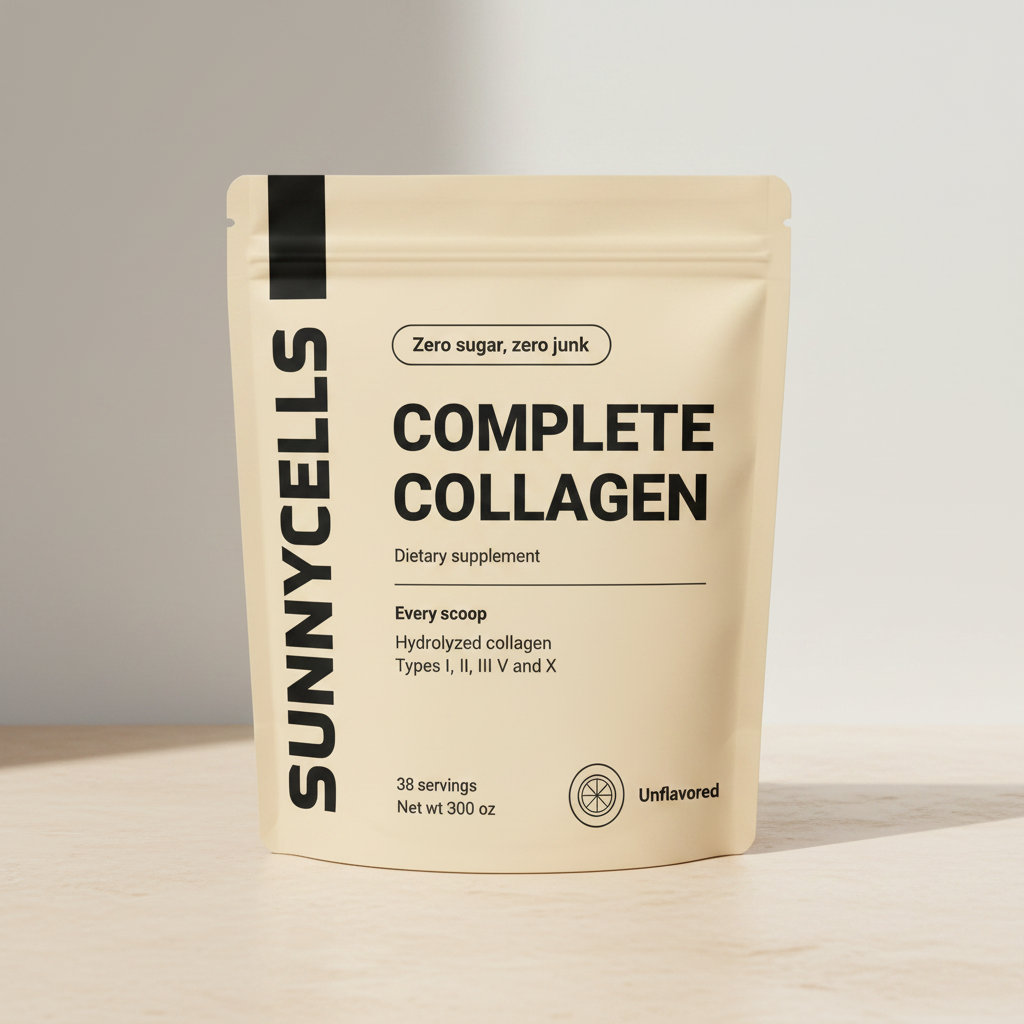
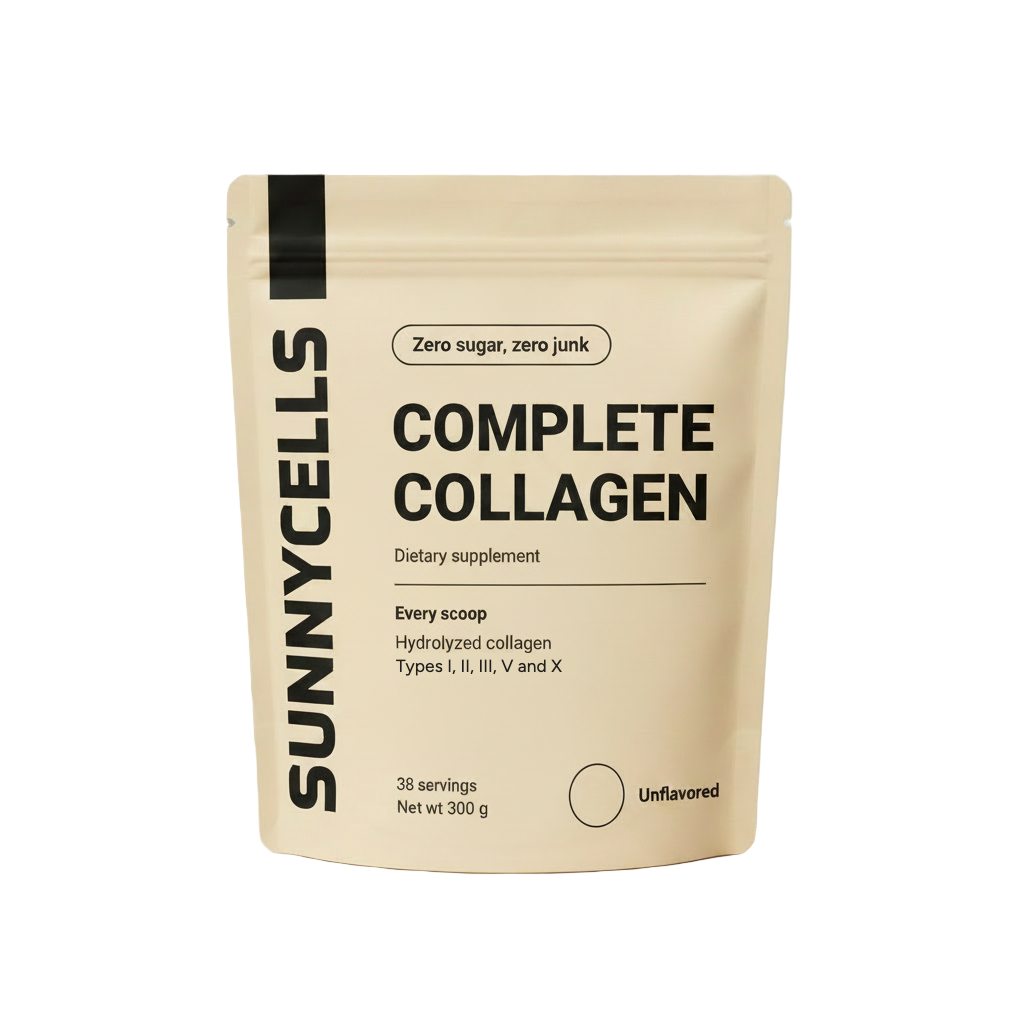
Shoot the collagen its own pictures and cut the hero out
The hero is transparent now, so it sits on the tint blocks and the story
screen without carrying a rectangle of stone with it. The pack render kept
two label errors the edit model would not fix, so the weight and the flavour
icon were corrected on the render and the collagen types line was patched
over a colour matched strip, which is the only way that comma was going to be
right.

The plans page had been borrowing the energy funnel's gallery panels and
faces and the diet funnel's drawn steps. It now has thirteen pictures of its
own across the hero carousel, the pillars, the ingredient panels, how it
works and the reviews. The headline review photograph was hardcoded to the
diet funnel's shot, so it takes a path from the content bundle like
everything else.

diff --git a/lib/quiz/agingPlansContent.ts b/lib/quiz/agingPlansContent.ts
@@ -9,16 +9,19 @@ import type { PlansContent } from "./plansContent";
 /* PLACEHOLDER REVIEWS. None of these people exist and none of these results were
    measured. Replace with real, documented customers before launch. */
 const HEADLINE_REVIEW = {
+  /* A different woman from the four in the review row below. The same face under two
+     names is the tell that gives a placeholder away. */
+  photo: "/photos/collagen-skin.webp",
   name: "Nadia R.",
   title: "One ingredient, and the types are on the front.",
   body: "I have taken enough collagen to be suspicious of all of it. Most of them are a proprietary blend with a scoop half full of things I did not ask for. This one is hydrolyzed collagen and nothing else, with the types printed on the front, which is the only reason I tried it. Four months in and my nails stopped splitting first, then the hair in my brush thinned out. My skin is the slowest of the three, which is what I was told to expect.",
 };
 
 const REVIEWS = [
-  { name: "Bea T.", photo: "/photos/even-avatar-1.webp", title: "Unflavored actually means unflavored", body: "It goes in my coffee and I cannot tell it is there. That sounds like a small thing but it is the whole reason I have kept taking it, where every flavoured one ended up at the back of a cupboard." },
-  { name: "Corinne L.", photo: "/photos/even-avatar-2.webp", title: "My hairbrush told me first", body: "The change I noticed was not in the mirror. There is less in the brush than there was, and I had quietly decided that was just my age." },
-  { name: "Marguerite D.", photo: "/photos/even-avatar-3.webp", title: "Two months, and my nails are long", body: "I have not had nails past my fingertips since my thirties. They still bend, but they stopped tearing off, which is the part that mattered." },
-  { name: "Suzanne P.", photo: "/photos/even-ugc-2.webp", title: "The knees were the surprise", body: "I bought it for my skin. What I actually noticed was getting up off the floor after gardening without the noise I usually make. I did not know collagen was in cartilage too." },
+  { name: "Bea T.", photo: "/photos/collagen-avatar-1.webp", title: "Unflavored actually means unflavored", body: "It goes in my coffee and I cannot tell it is there. That sounds like a small thing but it is the whole reason I have kept taking it, where every flavoured one ended up at the back of a cupboard." },
+  { name: "Corinne L.", photo: "/photos/collagen-avatar-2.webp", title: "My hairbrush told me first", body: "The change I noticed was not in the mirror. There is less in the brush than there was, and I had quietly decided that was just my age." },
+  { name: "Marguerite D.", photo: "/photos/collagen-avatar-3.webp", title: "Two months, and my nails are long", body: "I have not had nails past my fingertips since my thirties. They still bend, but they stopped tearing off, which is the part that mattered." },
+  { name: "Suzanne P.", photo: "/photos/collagen-avatar-4.webp", title: "The knees were the surprise", body: "I bought it for my skin. What I actually noticed was getting up off the floor after gardening without the noise I usually make. I did not know collagen was in cartilage too." },
 ];
 
 export const AGING_PLANS_CONTENT: PlansContent = {
@@ -45,9 +48,9 @@ export const AGING_PLANS_CONTENT: PlansContent = {
     { lead: "Hair is the slowest, give it ", strong: "3 to 6 months" },
   ],
   pillars: [
-    { slug: "skin", title: "Skin", body: "Types I and III are what the dermis is built from, the layer under the surface that keeps skin taut.", illustration: "/product/gallery/01-benefits.webp" },
-    { slug: "hair-nails", title: "Hair and nails", body: "Built from the same protein scaffolding as your skin, which is why they tend to change together.", illustration: "/product/complete-collagen.webp" },
-    { slug: "joints", title: "Joints", body: "Type II is the collagen in cartilage, with V and X in connective tissue and the growth plate.", illustration: "/product/gallery/06-in-the-glass.webp" },
+    { slug: "skin", title: "Skin", body: "Types I and III are what the dermis is built from, the layer under the surface that keeps skin taut.", illustration: "/photos/collagen-skin.webp" },
+    { slug: "hair-nails", title: "Hair and nails", body: "Built from the same protein scaffolding as your skin, which is why they tend to change together.", illustration: "/photos/collagen-hair.webp" },
+    { slug: "joints", title: "Joints", body: "Type II is the collagen in cartilage, with V and X in connective tissue and the growth plate.", illustration: "/photos/collagen-joints.webp" },
   ],
   headlineReview: HEADLINE_REVIEW,
   reviews: REVIEWS,
@@ -56,7 +59,7 @@ export const AGING_PLANS_CONTENT: PlansContent = {
     {
       slug: "type-i-iii",
       title: "Types I and III",
-      image: "/product/complete-collagen.webp",
+      image: "/photos/collagen-skin.webp",
       points: [
         ["What your skin is made of", "Together they are the overwhelming majority of the collagen in your dermis, the layer under the surface that gives skin its firmness."],
         ["Also hair, nails and bone", "The same two types build the scaffolding in hair follicles and nail beds, which is why those tend to change together."],
@@ -65,7 +68,7 @@ export const AGING_PLANS_CONTENT: PlansContent = {
     {
       slug: "type-ii",
       title: "Type II",
-      image: "/product/gallery/06-in-the-glass.webp",
+      image: "/photos/collagen-joints.webp",
       points: [
         ["The collagen in cartilage", "Type II is the main structural collagen in the cartilage between your joints rather than in skin."],
         ["Why one powder covers both", "It is the reason a collagen taken for skin is the same one people take to keep moving without paying for it the next day."],
@@ -74,7 +77,7 @@ export const AGING_PLANS_CONTENT: PlansContent = {
     {
       slug: "type-v-x",
       title: "Types V and X",
-      image: "/product/gallery/02-ingredients.webp",
+      image: "/photos/collagen-pack-detail.webp",
       points: [
         ["The two most formulas leave out", "Type V sits in connective tissue and the surface of cells; type X is found at the growth plate and in cartilage repair."],
         ["Five types, not one", "Most collagen powders are types I and III alone. Naming all five on the front is the point of the pack."],
@@ -83,7 +86,7 @@ export const AGING_PLANS_CONTENT: PlansContent = {
     {
       slug: "hydrolyzed",
       title: "Hydrolyzed, not whole",
-      image: "/product/gallery/03-stick.webp",
+      image: "/photos/collagen-in-cup.webp",
       points: [
         ["Broken down to be absorbed", "Whole collagen is too large to cross the gut wall. Hydrolysis cuts it into peptides small enough to be taken up and carried to the tissue."],
         ["Which is why it is a powder", "It also dissolves in hot or cold liquid without gelling, so it goes into coffee without turning it into anything."],
@@ -92,7 +95,7 @@ export const AGING_PLANS_CONTENT: PlansContent = {
     {
       slug: "nothing-else",
       title: "Nothing else",
-      image: "/product/gallery/05-supplement-facts.webp",
+      image: "/photos/collagen-flatlay.webp",
       points: [
         ["One line on the panel", "Hydrolyzed collagen is the whole formula. No proprietary blend, no sweetener, no filler taking up the scoop."],
         ["Unflavored on purpose", "Flavour is where the sugar and the sweeteners get in. Without it the powder goes into whatever you already drink."],
@@ -100,8 +103,8 @@ export const AGING_PLANS_CONTENT: PlansContent = {
     },
   ],
   howItWorks: [
-    { img: "step-scoop", title: "Add 1 scoop", body: "One 7.8 g scoop into coffee, water or a smoothie. Hot or cold, it dissolves either way.", illustration: "/illustrations/step-scoop.png" },
-    { img: "step-drink", title: "Give it a few weeks", body: "Nails tend to change first, then hair, then skin. This is a habit rather than a hit, which is why the pouch is a month.", illustration: "/illustrations/step-drink.png" },
+    { img: "step-scoop", title: "Add 1 scoop", body: "One 7.8 g scoop into coffee, water or a smoothie. Hot or cold, it dissolves either way.", illustration: "/photos/collagen-scoop.webp" },
+    { img: "step-drink", title: "Give it a few weeks", body: "Nails tend to change first, then hair, then skin. This is a habit rather than a hit, which is why the pouch is a month.", illustration: "/photos/collagen-in-cup.webp" },
   ],
   comparisonNote: "Compared to other collagen powders",
   comparison: [

diff --git a/components/aging-quiz/AgingPlans.tsx b/components/aging-quiz/AgingPlans.tsx
@@ -1,22 +1,35 @@
 "use client";
 
+import { EvenGallery } from "@/components/even-energy/EvenGallery";
 import { PlansScreen } from "@/components/quiz/PlansScreen";
 import { AGING_PLANS_CONTENT } from "@/lib/quiz/agingPlansContent";
 import { AgingPlanCards } from "./AgingPlanCards";
 
 const CHECKOUT = "/quiz/aging/results/checkout";
 
+/* The pack first, then what it looks like in use, in the order someone works through
+   it. The shared gallery takes its slides now, so this funnel does not carry a carousel
+   of another product's panels. */
+const SLIDES = [
+  { src: "/product/complete-collagen.webp", alt: "Complete Collagen, a cream pouch of unflavored collagen powder" },
+  { src: "/photos/collagen-pack-detail.webp", alt: "The ingredient block on the pack: hydrolyzed collagen, types I, II, III, V and X" },
+  { src: "/photos/collagen-scoop.webp", alt: "One scoop of Complete Collagen going into a mug of coffee" },
+  { src: "/photos/collagen-in-cup.webp", alt: "Complete Collagen stirred into coffee, beside the pouch" },
+  { src: "/photos/collagen-flatlay.webp", alt: "The pouch, a scoop, a mug and a towel on warm linen" },
+  { src: "/photos/collagen-nails.webp", alt: "A woman holding a warm mug, her natural nails visible" },
+];
+
 /**
  * The diet funnel's plans page, selling the collagen. The layout, the section order and
- * the chrome all come from the shared screen: this file only says which content and
- * which cards. No hero media override, so it keeps the diet carousel, which is what the
- * brief asked for until the product has assets of its own.
+ * the chrome all come from the shared screen: this file only says which content, which
+ * cards and which pictures.
  */
 export function AgingPlans() {
   return (
     <PlansScreen
       content={AGING_PLANS_CONTENT}
       destinationHref={CHECKOUT}
+      heroMedia={<EvenGallery slides={SLIDES} />}
       plansSlot={<AgingPlanCards destinationHref={CHECKOUT} />}
     />
   );

diff --git a/components/even-energy/EvenGallery.tsx b/components/even-energy/EvenGallery.tsx
@@ -18,17 +18,19 @@ const SLIDES = [
   { src: "/product/gallery/06-in-the-glass.webp", alt: "Even Energy mixed into a glass of cold water" },
 ];
 
-export function EvenGallery() {
+export type Slide = { src: string; alt: string };
+
+export function EvenGallery({ slides = SLIDES }: { slides?: readonly Slide[] } = {}) {
   const [i, setI] = useState(0);
-  const go = (n: number) => setI((n + SLIDES.length) % SLIDES.length);
+  const go = (n: number) => setI((n + slides.length) % slides.length);
 
   return (
     <div className={styles.gallery}>
       <div className={styles.galleryStage}>
         <Image
-          key={SLIDES[i].src}
-          src={SLIDES[i].src}
-          alt={SLIDES[i].alt}
+          key={slides[i].src}
+          src={slides[i].src}
+          alt={slides[i].alt}
           width={1080}
           height={1080}
           priority={i === 0}
@@ -43,14 +45,14 @@ export function EvenGallery() {
         </button>
 
         <span className={styles.galleryCount} aria-hidden="true">
-          {i + 1} / {SLIDES.length}
+          {i + 1} / {slides.length}
         </span>
       </div>
 
       {/* Thumbnails scroll rather than shrink, so a seventh slide does not squeeze
           the other six down to nothing on a phone. */}
       <div className={styles.thumbs} role="tablist" aria-label="Product images">
-        {SLIDES.map((s, n) => (
+        {slides.map((s, n) => (
           <button
             key={s.src}
             type="button"

diff --git a/lib/quiz/plansContent.ts b/lib/quiz/plansContent.ts
@@ -182,7 +182,9 @@ export type PlansContent = {
   /** `illustration` is a path. `slug` alone means the gendered pair under
       /illustrations, which only the diet funnel has drawn. */
   pillars: { slug: string; title: string; body: string; illustration?: string }[];
-  headlineReview: { name: string; title: string; body: string };
+  /** `photo` overrides the gendered story photograph beside the headline review, which
+      only the diet funnel has shot. */
+  headlineReview: { name: string; title: string; body: string; photo?: string };
   reviews: { name: string; photo: string; title: string; body: string }[];
   ingredientsTitle: string;
   ingredients: { slug: string; title: string; image?: string; points: [string, string][] }[];

diff --git a/components/aging-quiz/AgingStory.tsx b/components/aging-quiz/AgingStory.tsx
@@ -71,7 +71,7 @@ export function AgingStory() {
 
       <Image
         src="/product/complete-collagen.webp"
-        alt="A pouch of Complete Collagen on a warm stone surface"
+        alt="A pouch of Complete Collagen"
         width={1024}
         height={1024}
         style={{
@@ -81,8 +81,6 @@ export function AgingStory() {
           height: "auto",
           display: "block",
           margin: "0 auto",
-          background: "var(--shell)",
-          borderRadius: "var(--radius-card)",
         }}
       />
 

diff --git a/components/quiz/PlansScreen.tsx b/components/quiz/PlansScreen.tsx
@@ -526,7 +526,7 @@ export function PlansScreen({
             </p>
           </div>
           <Image
-            src={`/photos/story-${set}.jpg`}
+            src={content.headlineReview.photo ?? `/photos/story-${set}.jpg`}
             alt=""
             width={1080}
             height={1480}
